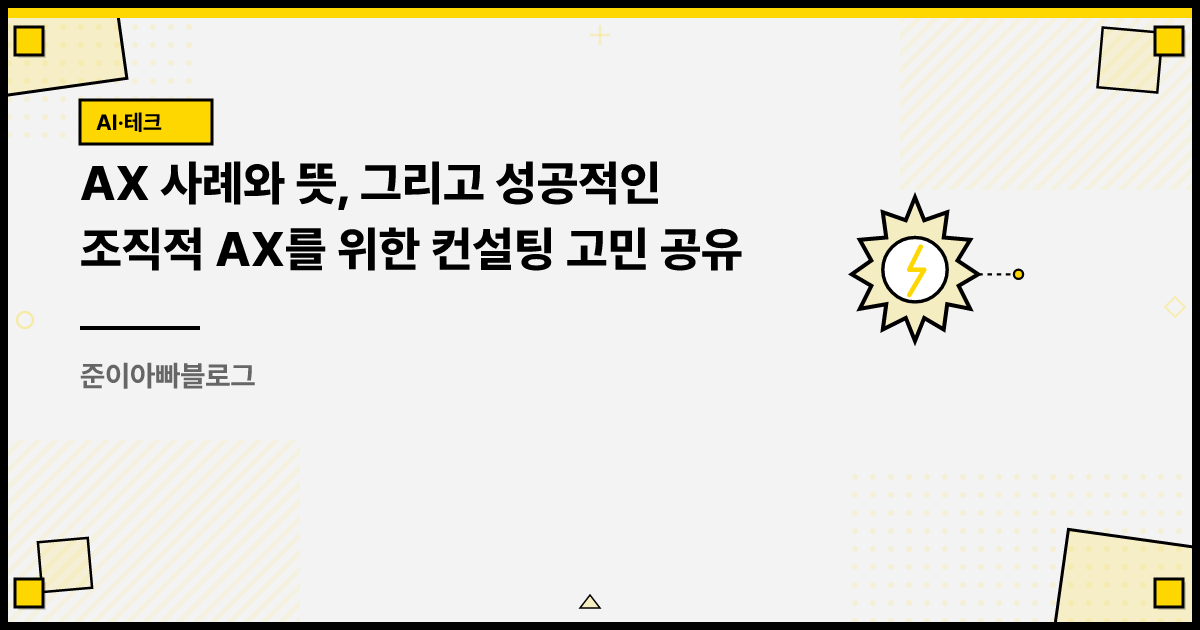
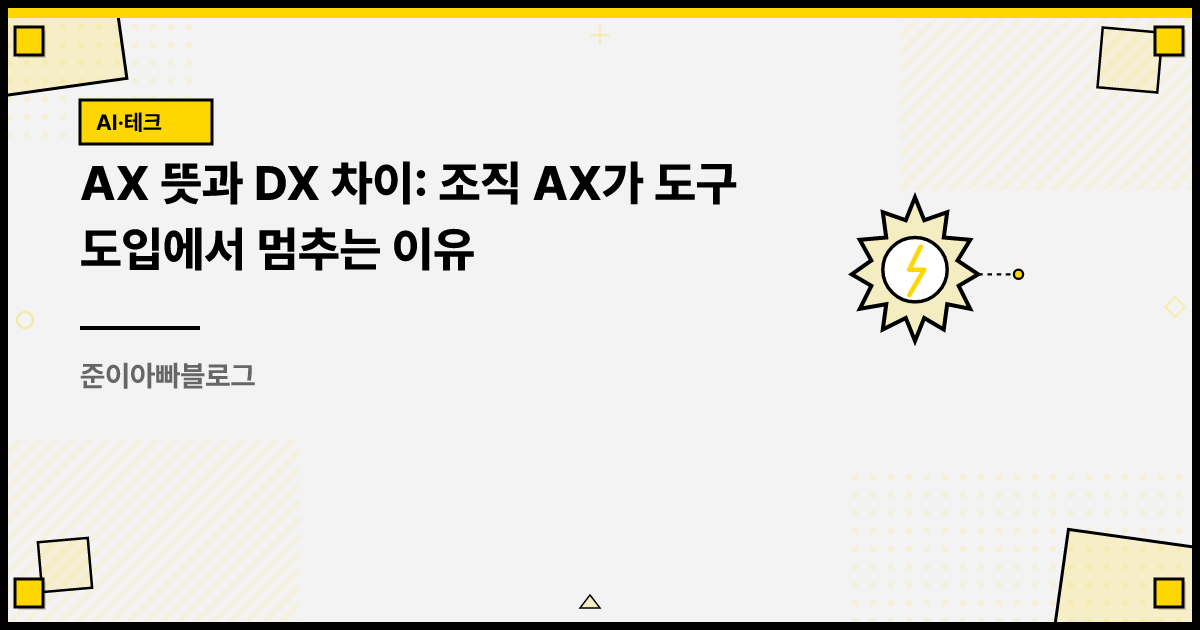
fix(seo): AX 글 제목을 AX 뜻 + DX 차이 축으로 교체
네이버 검색량 측정 결과 이 클러스터는 AX뜻(29,800/월, 경쟁 낮음)에
수요가 몰려 있고, 기존 제목이 첫 자리에 둔 AX사례는 40/월이었다.
AX 뜻이 연속 문자열로 앞 5자에 오도록 제목, metaTitle, ogTitle을
바꾸고 og:image를 다시 생성했다.

재크롤링 우선순위를 위해 updatedAt을 기록했다.

Claude-Session: https://claude.ai/code/session_01XgTFoMqtWEMGEN6AniBTjY

Changed region(s): [[0.1233, 0.2413, 0.6167, 0.3317], [0.0617, 0.3619, 0.6167, 0.4524]]

diff --git a/content/insights/ax-meaning-cases-organizational-bottleneck.md b/content/insights/ax-meaning-cases-organizational-bottleneck.md
@@ -1,6 +1,6 @@
 ---
 slug: ax-meaning-cases-organizational-bottleneck
-title: 'AX 사례와 뜻, 그리고 성공적인 조직적 AX를 위한 컨설팅 고민 공유'
+title: 'AX 뜻과 DX 차이: 조직 AX가 도구 도입에서 멈추는 이유'
 excerpt: >-
   AX(AI Transformation)는 AI를 업무 절차와 판단 구조에 결합해 조직이 일하는 방식을 다시 설계하는 전환입니다. AX 뜻과
   DX와의 차이, 엔비디아의 토큰 사용량 평가, 컨설팅 현장에서 확인한 평범한 병목을 공개 연구 자료와 함께 정리했습니다.
@@ -11,6 +11,7 @@ tags:
   - 데이터 분석
   - 마케팅 실무
 publishedAt: '2026-08-01T00:00:00.000Z'
+updatedAt: '2026-08-02T00:00:00.000Z'
 highlights:
   - AX는 DX가 끝난 범위 안에서만 움직였습니다.
   - 판정 주체를 사람에서 합격선 문서로 옮길 때 소모가 줄었습니다.
@@ -26,11 +27,11 @@ quiz:
       알토대학교 연구진이 2026년 학술지 Computers in Human Behavior에 발표한 논문은 AI 사용자 전원이 자기
       성과를 실제보다 높게 평가했다고 보고했습니다. 실력이 낮은 쪽이 자기를 과대평가하던 기존 패턴이 뒤집혀, 스스로 AI를 잘 안다고
       여기는 사람일수록 과대평가가 심해졌습니다. 결과를 다시 따져 보지 않고 받아들이는 인지적 위임이 원인으로 지목됐습니다.
-metaTitle: 'AX 뜻과 사례 정리: 조직 AX가 개인 AI 이해에서 갈리는 이유'
+metaTitle: 'AX 뜻과 DX 차이 정리: AI 전환이 조직에서 멈추는 지점'
 metaDescription: >-
   AX(AI Transformation)는 AI를 업무 절차와 판단 구조에 결합해 조직이 일하는 방식을 다시 설계하는 전환입니다. AX 뜻과
   DX 차이, 엔비디아 토큰 평가, 컨설팅 현장에서 확인한 병목을 정리했습니다.
-ogTitle: 'AX 뜻과 사례: 조직 AX가 개인의 AI 이해에서 갈리는 이유'
+ogTitle: 'AX 뜻과 DX 차이: 조직 AX가 도구 도입에서 멈추는 이유'
 ogDescription: >-
   AX는 AI를 업무 절차와 판단 구조에 결합해 일하는 방식을 다시 설계하는 전환입니다. 엔비디아의 토큰 평가와 컨설팅 현장에서 확인한 조직
   AX 병목을 정리했습니다.
